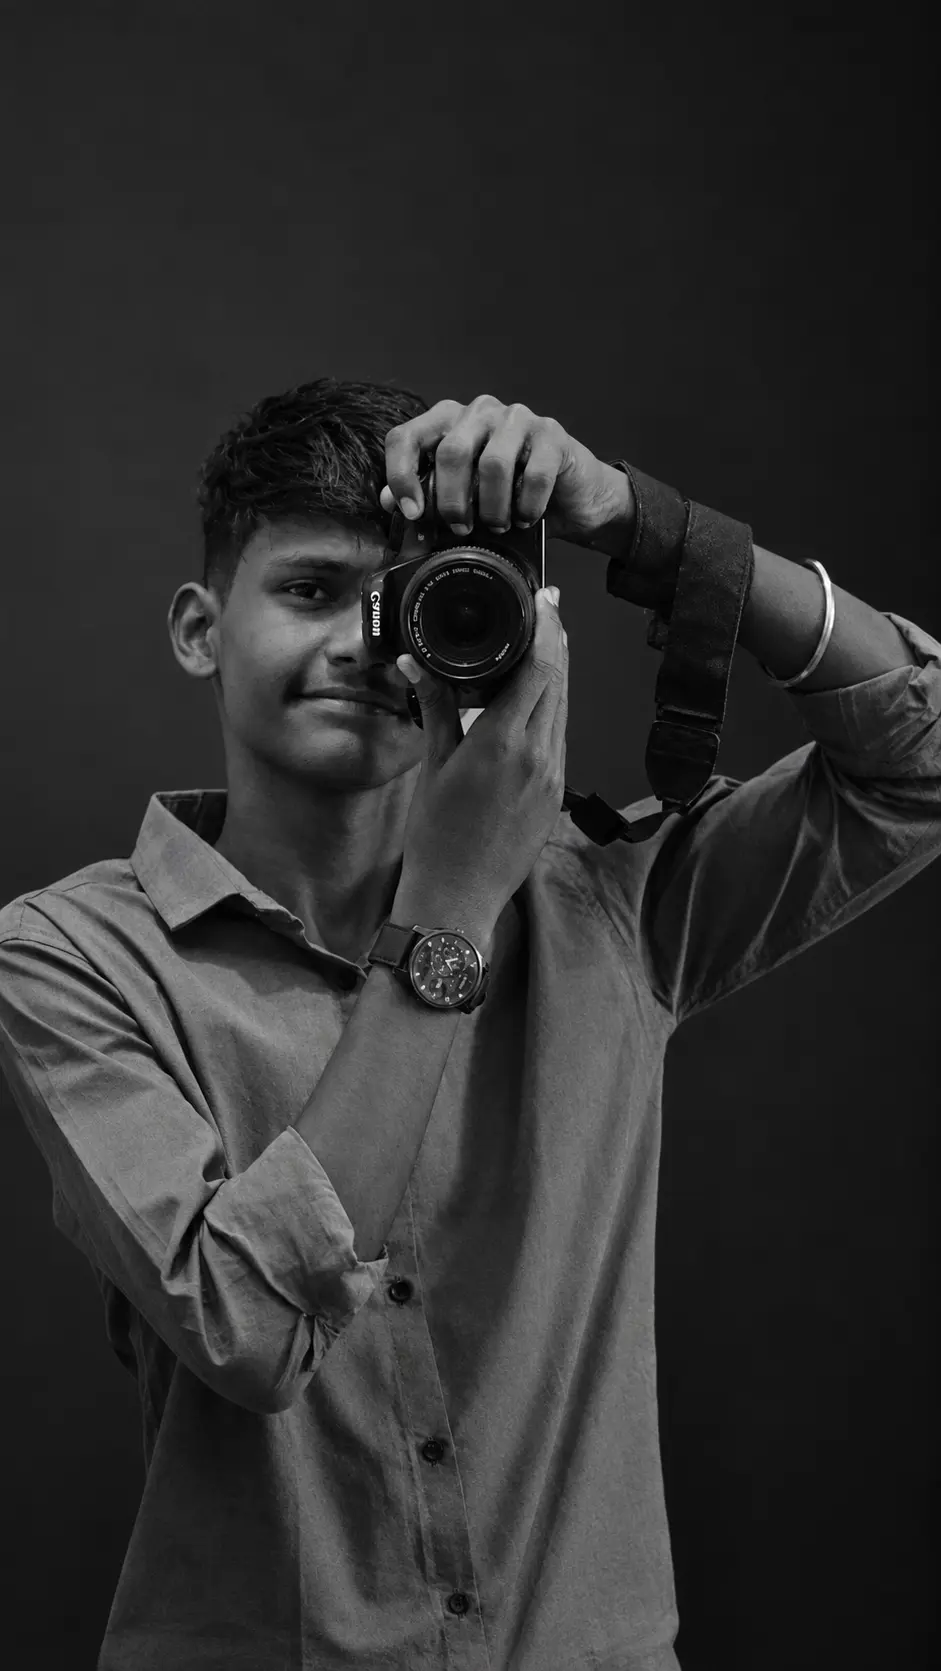
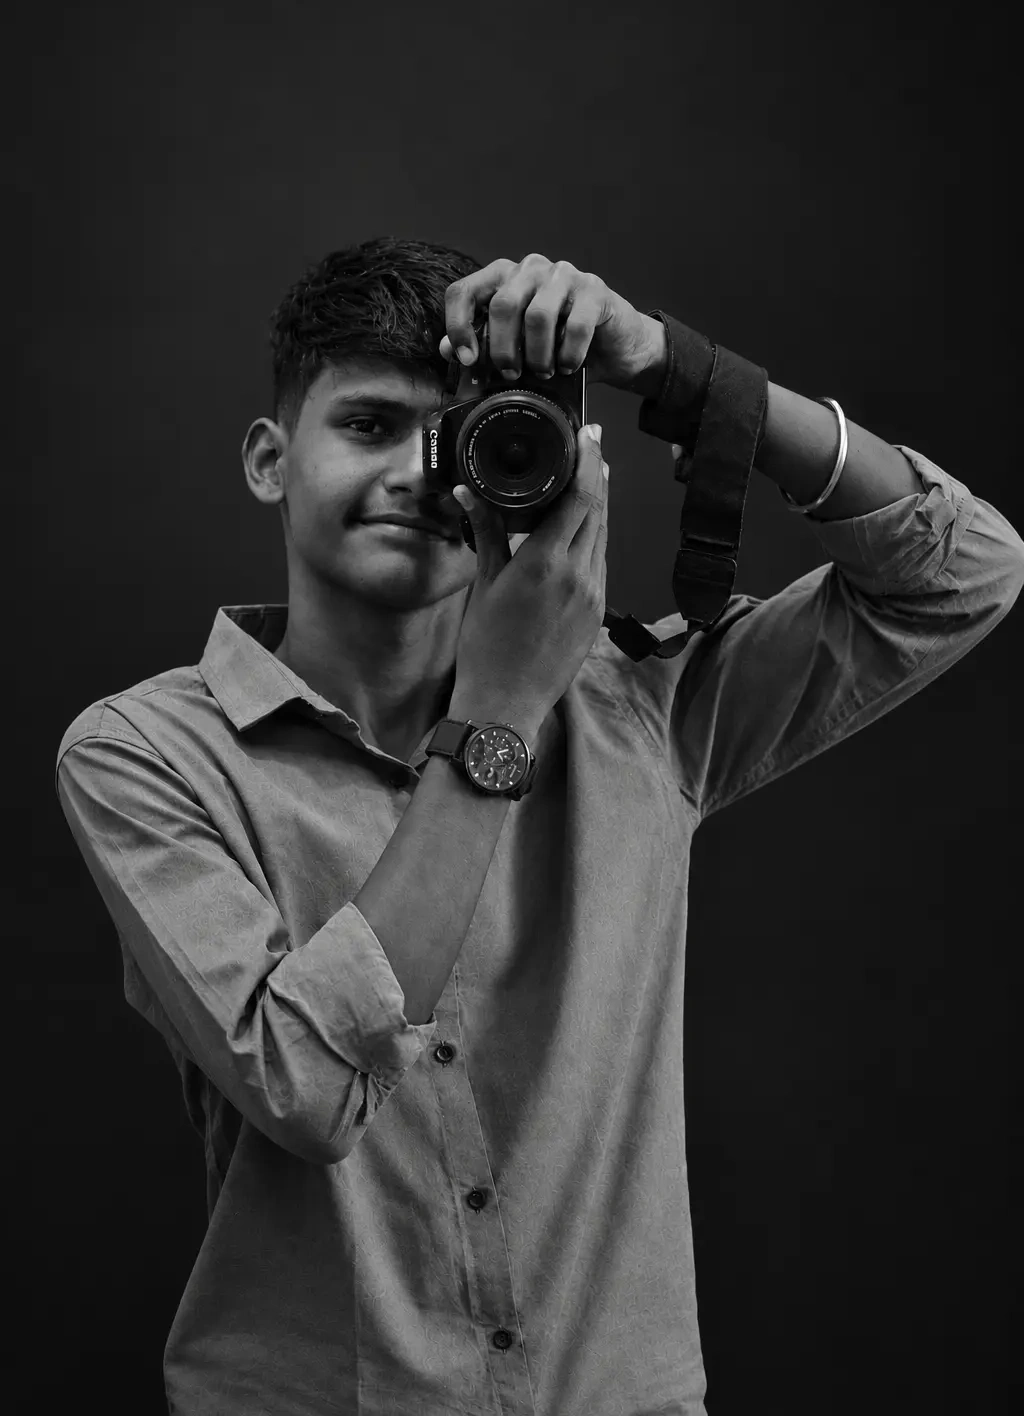
update about image

Changed region(s): [[0.0, 0.1554, 1.0, 1.0], [0.5855, 0.9944, 0.6164, 1.0]]

diff --git a/components/sections/AboutPhotographer.tsx b/components/sections/AboutPhotographer.tsx
@@ -80,10 +80,10 @@ export function AboutPhotographer({ settings }: AboutPhotographerProps) {
       if (portraitInnerRef.current) {
         gsap.fromTo(
           portraitInnerRef.current,
-          { yPercent: -4, scale: 1.05 },
+          { yPercent: -2, scale: 1.02 },
           {
-            yPercent: 5,
-            scale: 1.01,
+            yPercent: 2,
+            scale: 1.0,
             ease: "none",
             scrollTrigger: {
               trigger: el,
@@ -106,10 +106,10 @@ export function AboutPhotographer({ settings }: AboutPhotographerProps) {
     >
       <div className="grid grid-cols-1 lg:grid-cols-12 gap-8 lg:gap-14 items-start">
         {/* Left Column: Portrait & Location Tag */}
-        <div className="lg:col-span-5 flex flex-col items-center lg:items-start space-y-4">
+        <div className="lg:col-span-5 flex flex-col items-center lg:items-start space-y-3.5">
           <div
             ref={portraitWrapperRef}
-            className="relative aspect-[4/5] sm:aspect-[3/4] lg:aspect-[4/5] w-full max-w-md overflow-hidden bg-canvas-muted shadow-lg border border-ink/10 rounded-[2px]"
+            className="relative aspect-[3/4.15] w-full max-w-sm sm:max-w-md lg:max-w-[390px] overflow-hidden bg-black shadow-xl border border-ink/15 rounded-[2px]"
           >
             <div ref={portraitInnerRef} className="relative w-full h-full">
               <Image
@@ -117,13 +117,13 @@ export function AboutPhotographer({ settings }: AboutPhotographerProps) {
                 alt="Gaurav Unfiltered with camera"
                 fill
                 priority
-                sizes="(max-width: 640px) 100vw, (max-width: 1024px) 50vw, 40vw"
+                sizes="(max-width: 640px) 100vw, (max-width: 1024px) 45vw, 35vw"
                 className="object-cover object-center"
               />
             </div>
           </div>
 
-          <div className="about-text-reveal w-full max-w-md flex items-center justify-between text-[11px] sm:text-xs tracking-widest text-ink-muted uppercase border-b border-ink/10 pb-3 font-mono">
+          <div className="about-text-reveal w-full max-w-sm sm:max-w-md lg:max-w-[390px] flex items-center justify-between text-[11px] sm:text-xs tracking-widest text-ink-muted uppercase border-b border-ink/10 pb-2.5 font-mono">
             <span className="font-semibold text-ink">GAURAV UNFILTERED</span>
             <span className="text-ink-muted">MAHARASHTRA, INDIA</span>
           </div>

diff --git a/components/sections/ContactSection.tsx b/components/sections/ContactSection.tsx
@@ -24,7 +24,7 @@ export function ContactSection({ settings }: ContactSectionProps) {
   const name = "Gaurav Damahe";
   const phone = "9699915638";
   const address = "Pune / Mumbai, Maharashtra";
-  const email = settings?.email || "gaurav@gaurav.studio";
+  const email = settings?.email || "gauravxd153@gmail.com";
   const instagram = "https://www.instagram.com/gaurav_unfiltered_?stkn=bXRiZ2cwYWIxNjdy";
 
   useGSAP(
